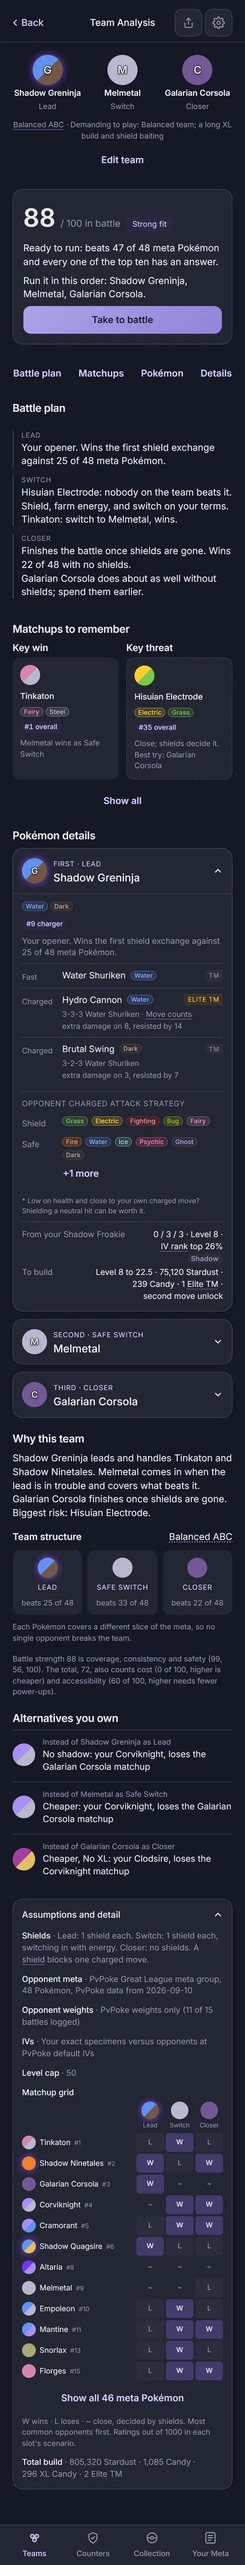
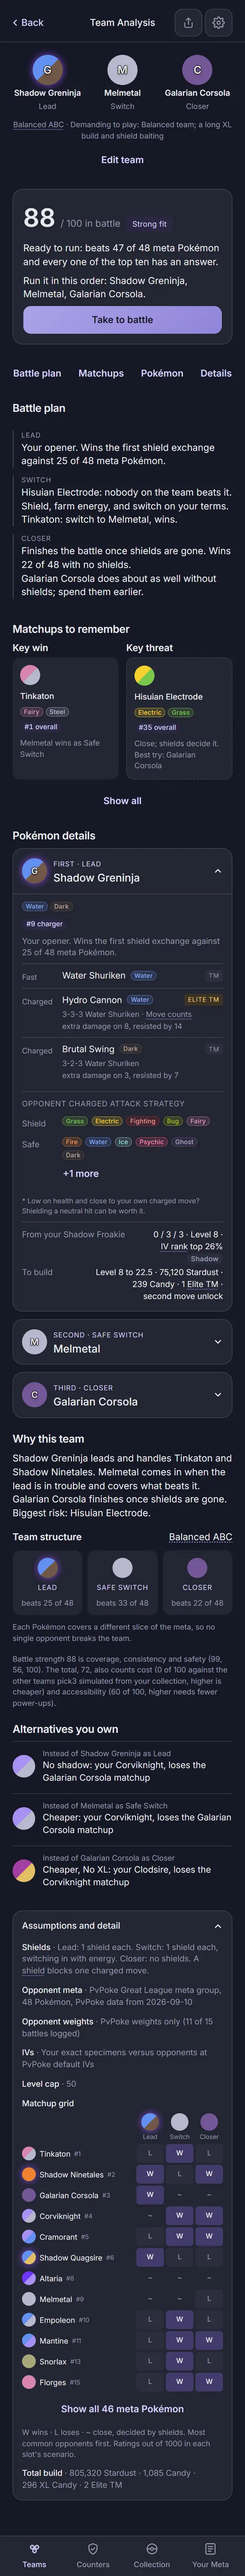
Design: Team Analysis record after the re-review's R1 fix
Fresh web:audit at e430c13 (exit 0, zero findings on the six enforced screens, 838 on screens
not yet redesigned). The four full-page pairs re-converted (the breakdown changed in all four);
analysis-confirm and analysis-not-found unchanged. Ruling 6 records why a custom team's cost
factor said nothing and the two sentences that replace it; a findings row cites e430c13; the
checks read 1,174 tests at e430c13. Sign-off stays unticked.

Claude-Session: https://claude.ai/code/session_01QpDSW9ZhLWToL3VMBP1mJq

diff --git a/docs/design/audits/analysis.md b/docs/design/audits/analysis.md
@@ -17,9 +17,10 @@ shows those instead; nothing on this branch touched sprite rendering itself.
 
 Dark and light at 390px, one pair per state, converted to WebP (600px wide, quality 72) the same
 way the Teams and Build images were, from `apps/web/screenshots/<name>-{dark,light}.png` (fresh
-`npm run web:audit` run, 2026-09-25, at commit `4cf5108`, the final review's fix wave). The four
-full-page pairs changed in that wave and were re-converted; `analysis-confirm` and
-`analysis-not-found` re-converted byte for byte identical to the earlier images. `03-team-detail`,
+`npm run web:audit` run, 2026-09-25, at commit `e430c13`, after the final review's fix wave and
+the re-review's R1 fix). The four full-page pairs changed in those waves and were re-converted
+(R1 changed the score breakdown in all four); `analysis-confirm` and `analysis-not-found`
+re-converted byte for byte identical to the earlier images. `03-team-detail`,
 `14-custom-team`, `14b-custom-unranked` and `14c-shared-team` are full-page shots
 (`captureBeyondViewport: false`, the same rule Teams and Build use so the fixed tab bar lands at
 the true bottom); `analysis-confirm` and `analysis-not-found` are viewport shots (a sheet over the
@@ -51,7 +52,8 @@ after Build's Find best order (every captured custom team was analyzed in the or
 ## Automated checks
 
 - [x] `npm run web:audit` clean for this page's screens (listed in `AUDIT_ENFORCED`), re-run
-      2026-09-25 against `4cf5108` (the final review's fix wave): exit 0. Zero findings on all six
+      2026-09-25 against `e430c13` (the final review's fix wave and the re-review's R1 fix): exit
+      0. Zero findings on all six
       enforced Team Analysis screens (`03-team-detail`, `14-custom-team`, `14b-custom-unranked`,
       `14c-shared-team`, `analysis-confirm`, `analysis-not-found`), in both themes. 838 findings
       remain on screens not yet redesigned (the same count as before the wave), none failing the
@@ -83,11 +85,12 @@ after Build's Find best order (every captured custom team was analyzed in the or
     (Task 5's I2 fix: the toggle left the chip flow).
 - [x] no console errors: the run printed no "Browser errors" section.
 - [x] `npm run lint`, `npm run typecheck`, `npm test`, `npm run check-colors`, `npm run
-      check-tokens`, all run 2026-09-25 at `4cf5108`: lint exit 0; typecheck exit 0 across all
-      seven workspaces; `npm test` 133 files, 1,173 tests passed; `check-colors` exit 0 (baseline
+      check-tokens`, all run 2026-09-25 at `e430c13`: lint exit 0; typecheck exit 0 across all
+      seven workspaces; `npm test` 133 files, 1,174 tests passed; `check-colors` exit 0 (baseline
       untouched); `check-tokens`: ok.
-- [x] `npm run ui:audit` re-run 2026-09-25 at `4cf5108`: exit 0, "gallery audit: clean in dark
-      and light", its three self-checks passing (they exit 1 on failure). `npm run meta:screens`:
+- [x] `npm run ui:audit` re-run 2026-09-25 at `4cf5108` (nothing it covers changed after): exit
+      0, "gallery audit: clean in dark and light", its three self-checks passing (they exit 1 on
+      failure). `npm run meta:screens`:
       not re-run; nothing under `packages/ui` or `apps/meta` changed in the fix wave (`Button`'s
       `ariaExpanded` prop, the one `packages/ui` change on this branch, predates Task 5's passing
       `meta:screens` run).
@@ -254,11 +257,12 @@ after Build's Find best order (every captured custom team was analyzed in the or
 - [x] tests cover the new behavior: `apps/web/test/analysisComponents.test.tsx` (ScoreCard with
       one order line or the tried-orders line, BattlePlan, Matchups with its "Key win"/"Key
       threat" heads and the no-wins line, PokemonDetails with "+N more" as a text Button,
-      WhyThisTeam's higher-is-better breakdown), `apps/web/test/teamDetail.test.tsx` (the
-      screen: not-found after a run, Loading then the team on a fresh load, the failed run with
-      Try again and no loop, headline, jumps, strip, Take to battle in all three running-set
-      cases, Edit team, Back with and without history, the team-link describe block, the rounded
-      score breakdown, the reduced-motion jump), `apps/web/test/history.test.ts` (`replaceEntry`),
+      WhyThisTeam's breakdown for a recommended team and for a hand-built one),
+      `apps/web/test/teamDetail.test.tsx` (the screen: not-found after a run, Loading then the
+      team on a fresh load, the failed run with Try again and no loop, headline, jumps, strip,
+      Take to battle in all three running-set cases, Edit team, Back with and without history,
+      the team-link describe block, the rounded score breakdown, the custom breakdown's build
+      cost, the reduced-motion jump), `apps/web/test/history.test.ts` (`replaceEntry`),
       `apps/web/test/format.test.ts` (`costParts`), `apps/web/test/shadowToken.test.tsx` (the
       token-wrapper alignment fix), `packages/engine/test/analyze.test.ts` (Ruling 1's
       battle-first order sort).
@@ -297,11 +301,20 @@ after Build's Find best order (every captured custom team was analyzed in the or
    decimals ("56.3," "71.7") beside a rounded headline, fixed by rounding every number in the line
    the same way the headline is rounded. **Changed by the controller after the final review
    flagged it:** "cost (0)" meant the most expensive build but read as "costs nothing". In
-   `score.ts` cost is 100 for the cheapest of the finalists and 0 for the most expensive, and
-   accessibility falls with the power-up steps left, so both now say which way is better:
-   `03-team-detail` reads "The total, 72, also counts cost (0 of 100, higher is cheaper) and
-   accessibility (60 of 100, higher needs fewer power-ups)." (`a3636e6`; the WhyThisTeam and
-   TeamDetail tests pin the sentence).
+   `score.ts` cost is 100 for the cheapest of the teams scored in the same run and 0 for the most
+   expensive, and accessibility falls with the power-up steps left, so both now say which way is
+   better (`a3636e6`). **Changed again after the re-review (R1):** "the teams scored in the same
+   run" are pick3's simulated finalists for a recommended team, but only a hand-built team's own
+   orders for a custom one, which all cost the same, so every custom team read "cost (100 of
+   100, higher is cheaper)" whatever it cost. A recommended team's line now names what cost is
+   compared against: `03-team-detail` reads "The total, 72, also counts cost (0 of 100 against
+   the other teams pick3 simulated from your collection, higher is cheaper) and accessibility
+   (60 of 100, higher needs fewer power-ups)." A custom team (hand-built or from a link) drops
+   cost, accessibility and the total and gives the build cost instead: `14-custom-team` reads
+   "Battle strength 67 is coverage, consistency and safety (88, 61, 30). To build all three:
+   723,500 Stardust · 593 Candy · 182 XL Candy · 2 Elite TM." (`e430c13`; the WhyThisTeam tests
+   pin both sentences, the TeamDetail tests the recommended one and the custom one's "To build
+   all three").
 7. **`StructureTag` and `GLOSSARY['line']` are removed** once TeamDetail stops using them; the
    structure is a `Term` like Teams. [Cost if wrong: none.] `StructureTag` deleted in Task 4 (no
    remaining user); `GLOSSARY['line']` did not exist at HEAD, so there was nothing to delete.
@@ -333,6 +346,7 @@ after Build's Find best order (every captured custom team was analyzed in the or
 | Final review I4 and M6, record claims: the text-levels tick left out the 40px score and the 12/13/11px sizes; the strip-tap claim, the chips/tags tick, Ruling 1's wording, the shadowToken count (23, not 22), where the Share and Settings labels live, "every one of these notes at once", and the missing `Button` `ariaExpanded` and closed Build open item under visible changes. | The text-levels tick names every size and the 40px score as a display exception for Travis; the `.meta` 12px deferral is carried to Open items in Build's words; every other claim corrected in place. | this record's commit |
 | Final review flags, ruled by the controller: Ruling 3 ("Run in the order you picked." repeated the order line) and Ruling 6 ("cost (0)" read as free). | See Rulings 3 and 6 above. | `a3636e6` |
 | Final review M1, M2, M3, M4, M5, M7. M1: `.custom-note`'s left bar never drew (overridden by `.score-card`'s border). M2: "Wins" (plural) over one card, "Threat" (singular), and nothing under "Wins"/"Key wins" when the engine returns no key wins. M3: "Your Pokémon" over rows that say "Not in your collection". M4: 17px and 11px literals where tokens exist. M5: `.mini`'s fixed widths from the retired scroll rows and a stale comment. M7: violet on read-only things. | M1: rule deleted, class kept as a hook. M2: "Key win"/"Key threat" and a muted no-wins line, collapsed and expanded (two tests). M3: "Pokémon details". M4: `--fs-section`, `--fs-label`. M5: widths removed from `.mini` and `.mini.threat`, the overrides' width lines and the comment gone. M7: plan rail `--divider`, plan titles `--muted`, keep-shield line plain text; the carried violet rank tags, role eyebrow and win cells are named in the colors tick. | `4cf5108` |
+| Re-review R1: cost is normalized across the teams scored in the same run, which for a custom team is only its own orders, so every custom team read "cost (100 of 100, higher is cheaper)". | A recommended team's line says cost is "against the other teams pick3 simulated from your collection"; a custom team's line drops cost, accessibility and the total and ends "To build all three: <costLine>." (see Ruling 6). Tests for both sentences. | `e430c13` |
 
 ## Visible changes outside Team Analysis
 
